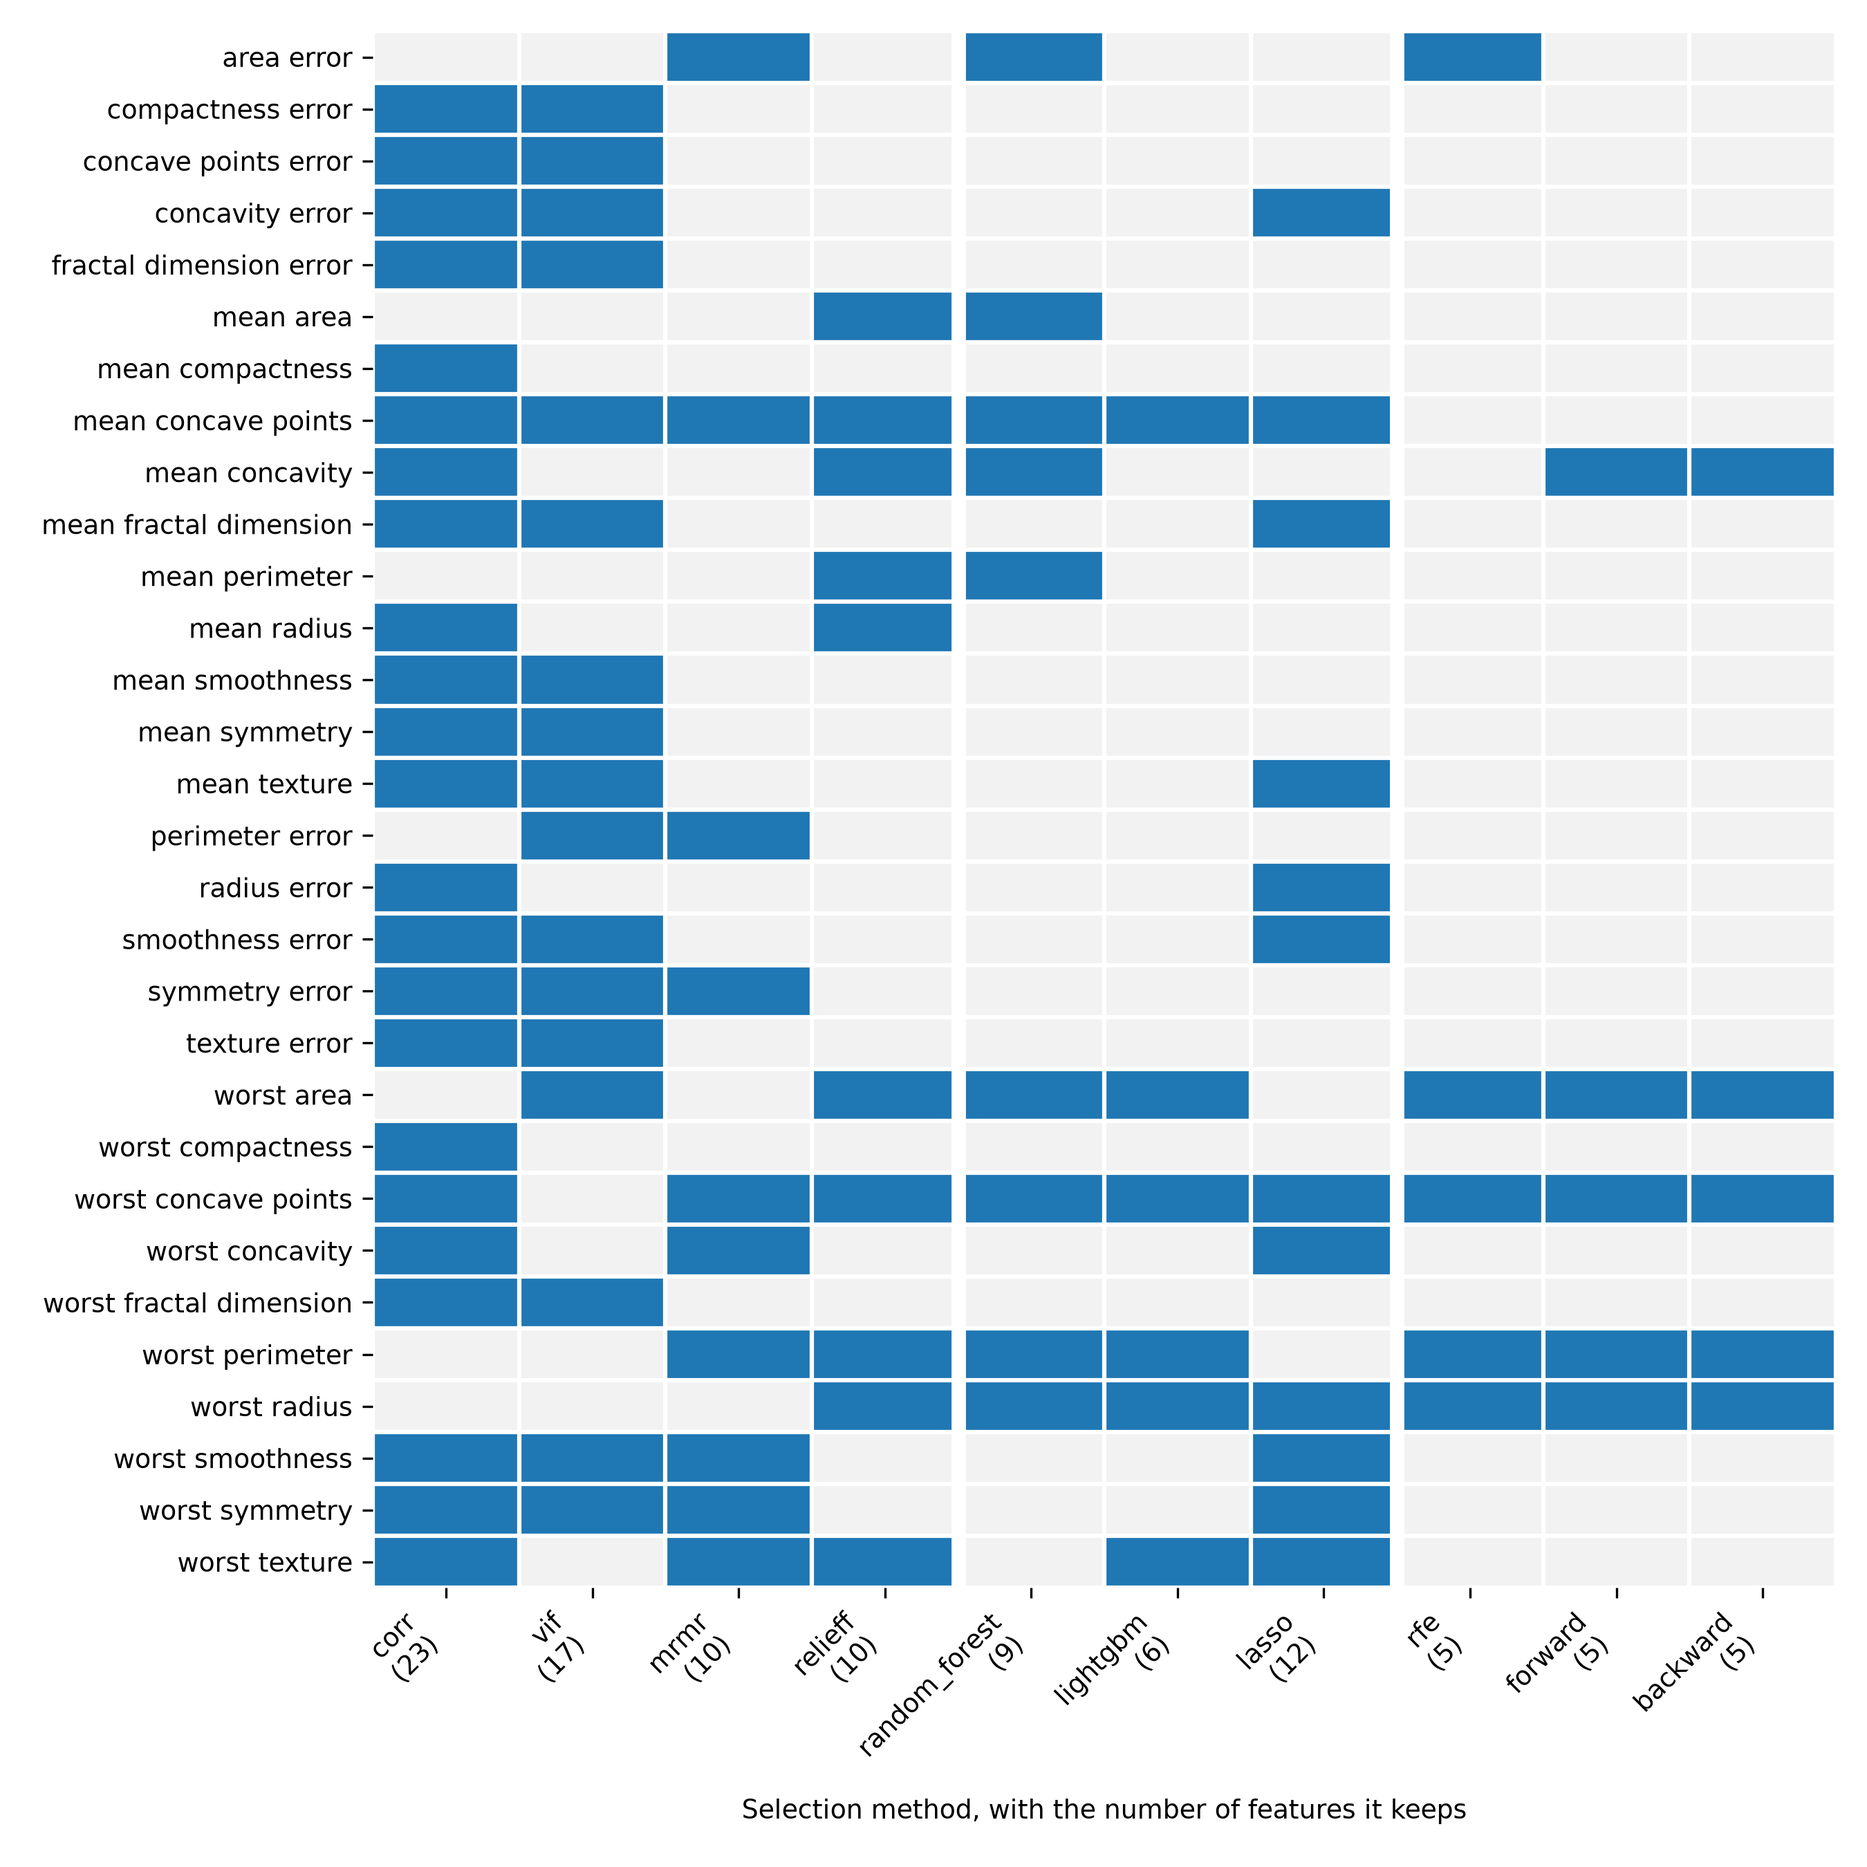
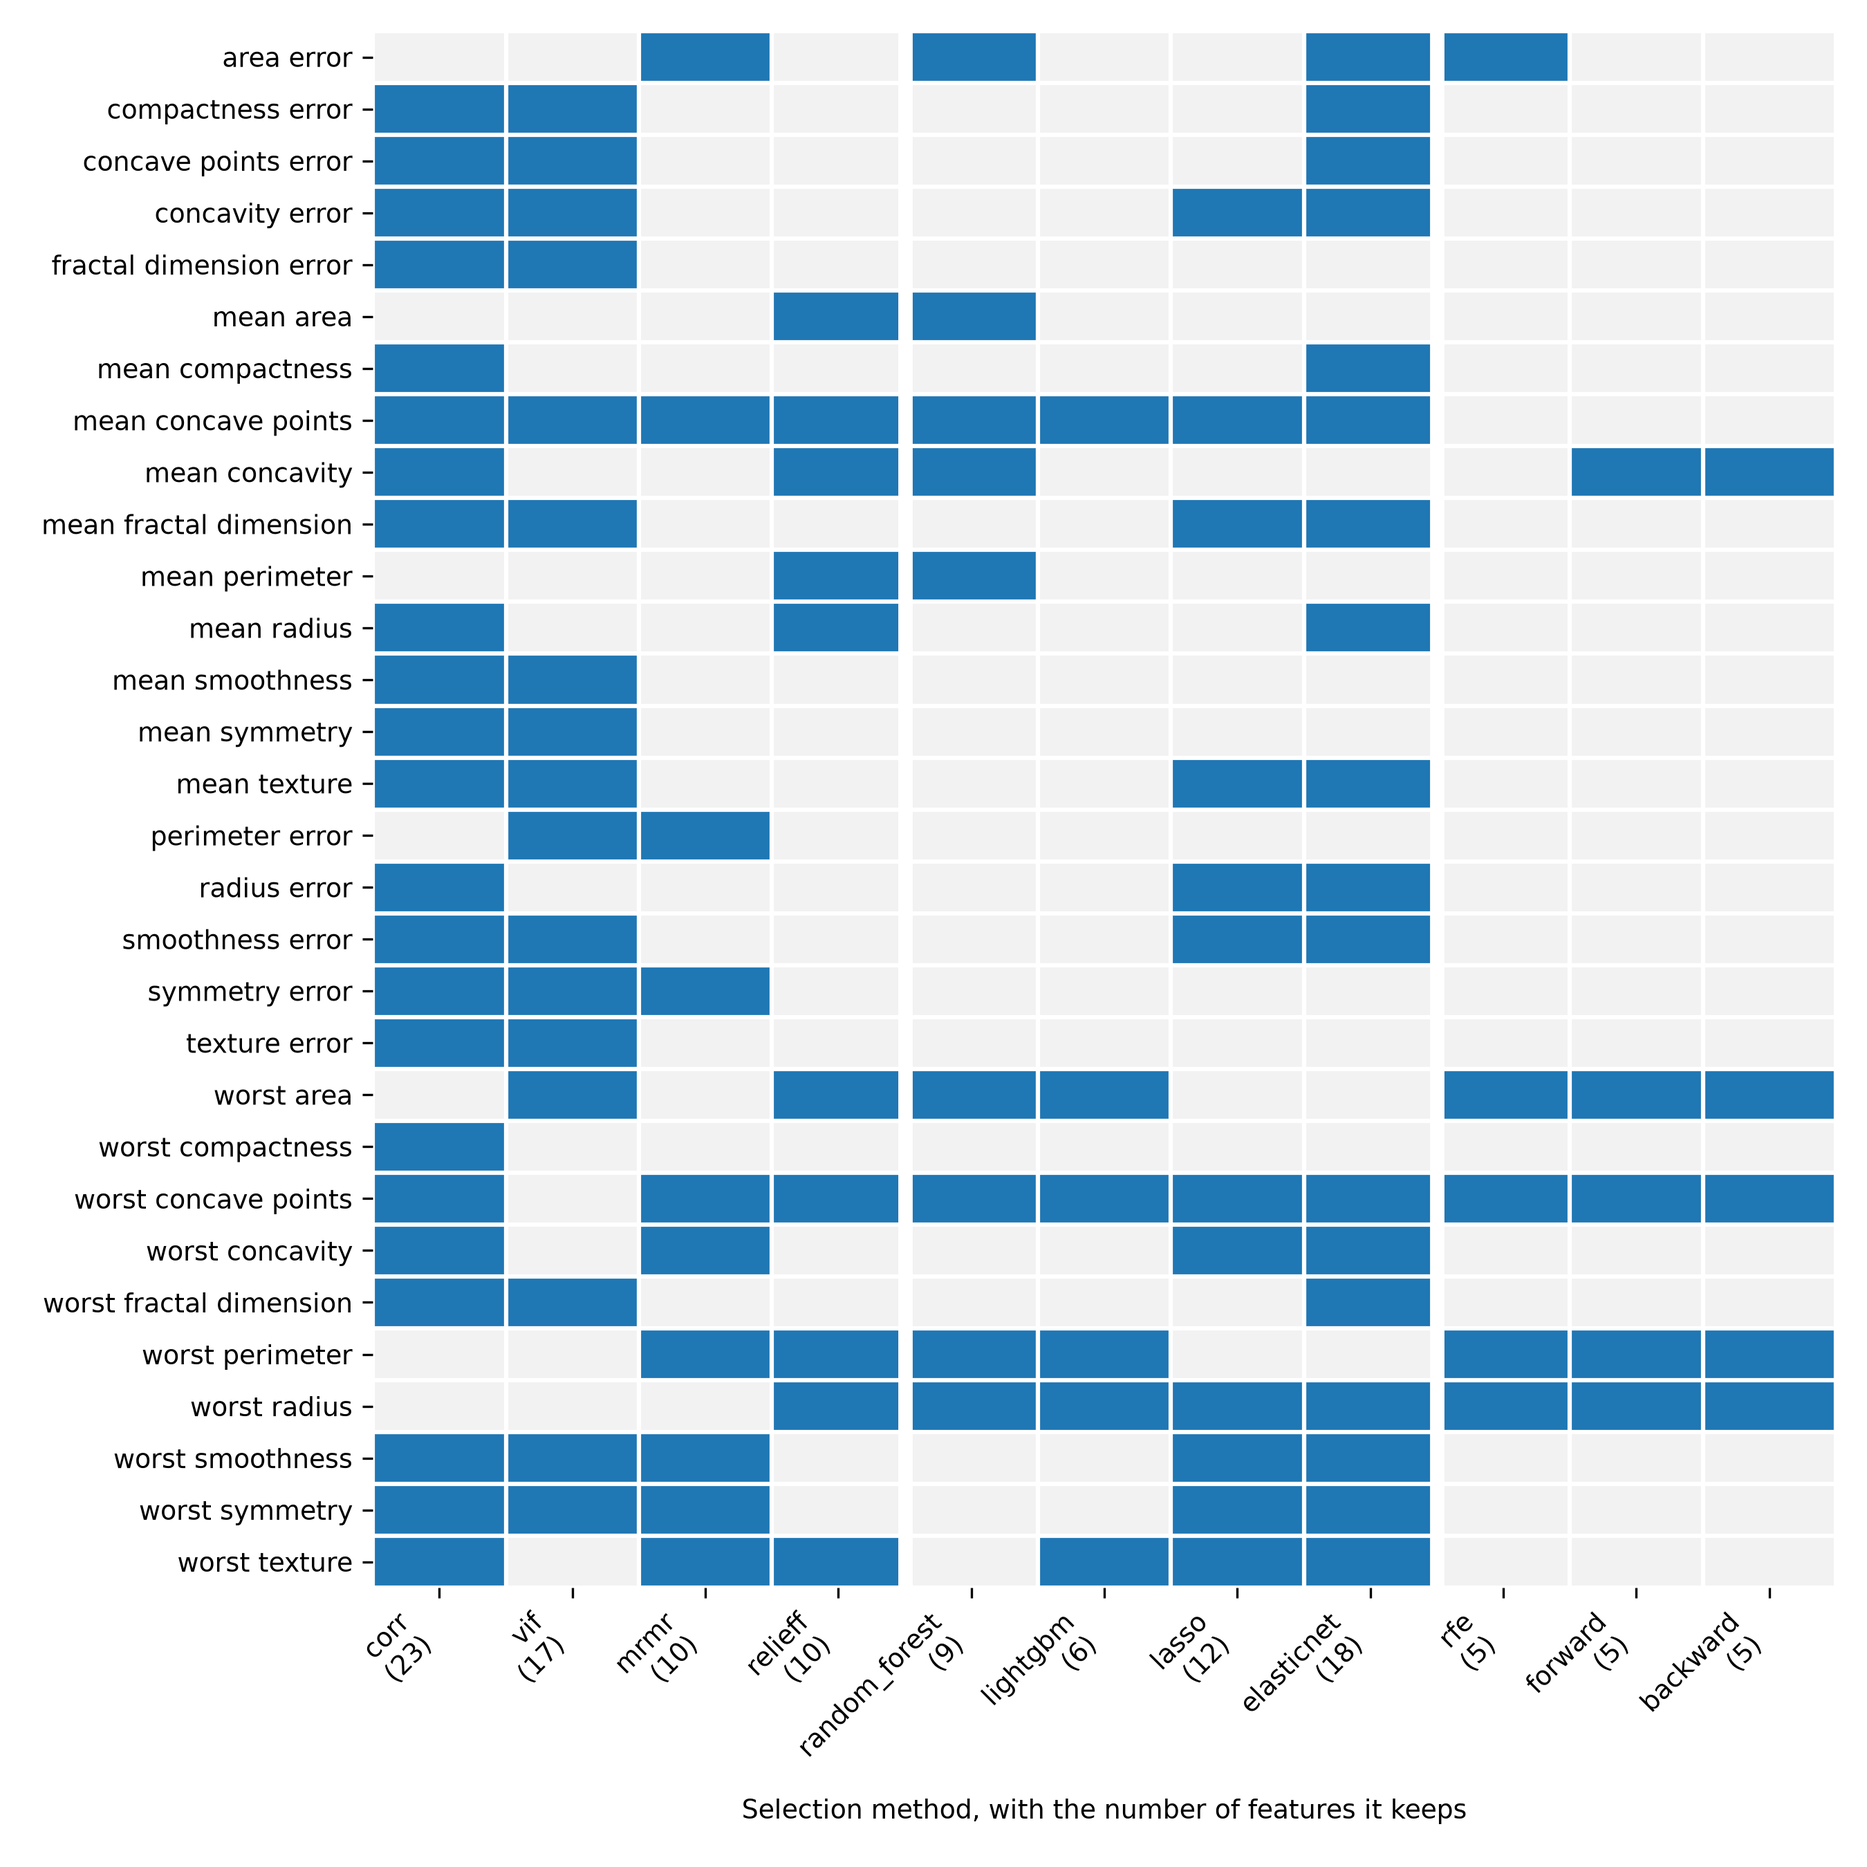
Add the elastic net beside the lasso in the embedded step
Claude-Session: https://claude.ai/code/session_01AWadeN2qFJXABZA8Pq8QWN

diff --git a/Feature-Engineering/Feature-Selection/multivariate-feature-selection/multivariate-feature-selection-ko.md b/Feature-Engineering/Feature-Selection/multivariate-feature-selection/multivariate-feature-selection-ko.md
@@ -1,5 +1,5 @@
 # Multivariate Feature Selection
-Rev. 20 | Created: 2026-09-12 | Updated: 2026-09-14 02:28 CDT
+Rev. 21 | Created: 2026-09-12 | Updated: 2026-09-14 03:19 CDT
 
 ## 1. Purpose
 
@@ -82,7 +82,7 @@ Greedy search 는 feature 를 하나씩 추가 (forward) 하거나 제거 (backw
 
 Model 의 학습 algorithm 안에 feature 선택 과정이 들어 있다.
 
-Lasso 는 손실 함수에 계수 절댓값의 합 $\lambda \sum |\beta_i|$ 을 penalty 로 더하여, 불필요한 feature 의 계수를 정확히 0 으로 보낸다.
+Lasso 는 손실 함수에 계수 절댓값의 합 $\lambda \sum |\beta_i|$ 을 penalty 로 더하여, 불필요한 feature 의 계수를 정확히 0 으로 보낸다. ElasticNet 은 거기에 계수 제곱합을 섞어, 서로 상관된 feature 가운데 하나만 남기는 lasso 와 달리 그 무리를 함께 남긴다.
 
 Tree-based importance 는 tree model 의 node 분할 기여도 (MDI) 나 값을 무작위로 섞었을 때의 성능 저하 폭 (permutation importance) 으로 다변량 관점의 중요도를 계산한다. 구현으로는 random forest 와 gradient boosting 계열의 XGBoost, LightGBM 이 있으며, 셋 다 분할 기여도를 내놓으므로 `SelectFromModel` 에 그대로 들어간다.
 
@@ -150,13 +150,13 @@ Table 1. Comparison of the three approaches
 
 ## Appendix B. Implementation
 
-scikit-learn 으로 section 5 의 네 단계를 실행하는 class 다. `run` 은 상수 feature 를 먼저 떨어뜨린 뒤 남은 column 에만 나머지 세 단계를 돌린다. 각 단계의 기준값을 생성자로 받고, 각 단계는 원본 column 번호를 그대로 돌려주어 마지막에 고른 feature 의 이름을 찾을 수 있게 한다. 단계마다 method 이름을 `Literal` 로 받아 그 갈래의 members 를 함께 적어 두므로, 무엇이 적용되었는지 서명에서 읽힌다. Filter 단계는 네 이름 (`corr`, `vif`, `mrmr`, `relieff`) 을, embedded 단계는 세 이름 (`random_forest`, `lightgbm`, `lasso`) 을, wrapper 단계는 세 이름 (`rfe`, `forward`, `backward`) 을 모두 구현하며, 목록에 없는 이름은 `ValueError` 로 막는다.
+scikit-learn 으로 section 5 의 네 단계를 실행하는 class 다. `run` 은 상수 feature 를 먼저 떨어뜨린 뒤 남은 column 에만 나머지 세 단계를 돌린다. 각 단계의 기준값을 생성자로 받고, 각 단계는 원본 column 번호를 그대로 돌려주어 마지막에 고른 feature 의 이름을 찾을 수 있게 한다. 단계마다 method 이름을 `Literal` 로 받아 그 갈래의 members 를 함께 적어 두므로, 무엇이 적용되었는지 서명에서 읽힌다. Filter 단계는 네 이름 (`corr`, `vif`, `mrmr`, `relieff`) 을, embedded 단계는 네 이름 (`random_forest`, `lightgbm`, `lasso`, `elasticnet`) 을, wrapper 단계는 세 이름 (`rfe`, `forward`, `backward`) 을 모두 구현하며, 목록에 없는 이름은 `ValueError` 로 막는다.
 
 입력은 scikit-learn 에 들어 있는 breast cancer dataset 이며, 상수 제거 단계가 보이도록 값이 늘 1.0 인 column 하나를 덧붙여 표본 569 개와 feature 31 개로 만들었다. 원래의 feature 30 개는 서로 중복이 크고, 모두 `StandardScaler` 로 표준화한다.
 
 ```python
 __author__ = "yRocket"
-__version__ = "0.2.1+20260914"
+__version__ = "0.3.0+20260914"
 
 import pathlib
 import textwrap
@@ -170,7 +170,7 @@ from sklearn.datasets import load_breast_cancer
 from sklearn.ensemble import RandomForestClassifier
 from sklearn.feature_selection import (RFE, SelectFromModel, SequentialFeatureSelector,
                                        mutual_info_classif, mutual_info_regression)
-from sklearn.linear_model import Lasso, LogisticRegression
+from sklearn.linear_model import ElasticNet, Lasso, LogisticRegression
 from sklearn.neighbors import NearestNeighbors
 from sklearn.preprocessing import StandardScaler
 
@@ -179,7 +179,7 @@ FIGSIZE: tuple = (9.0, 9.0)
 REFERENCE_WIDTH: float = 9.0     # the width BASE_FONT_SIZE was chosen for
 BASE_FONT_SIZE: float = 9.0
 FILTER_METHODS: tuple = ("corr", "vif", "mrmr", "relieff")
-EMBEDDED_METHODS: tuple = ("random_forest", "lightgbm", "lasso")
+EMBEDDED_METHODS: tuple = ("random_forest", "lightgbm", "lasso", "elasticnet")
 WRAPPER_METHODS: tuple = ("rfe", "forward", "backward")
 
 
@@ -192,7 +192,8 @@ class MultivariateFeatureSelector:
     Args:
         correlation_limit: absolute correlation above which one feature of a pair is dropped.
         vif_limit: variance inflation factor above which a feature is dropped, one at a time.
-        lasso_alpha: weight of the lasso penalty of the embedded step.
+        penalty_alpha: weight of the lasso and elastic net penalty of the embedded step.
+        elasticnet_ratio: share of the elastic net penalty that is L1, the rest being L2.
         filter_count: number of features the ranking filters (mrmr, relieff) keep.
         neighbour_count: number of hits and misses relieff compares per sample.
         forest_size: number of trees of the random forest used by the embedded step.
@@ -202,22 +203,26 @@ class MultivariateFeatureSelector:
     """
 
     def __init__(self, correlation_limit: float = 0.95, vif_limit: float = 10.0,
-                 lasso_alpha: float = 0.01, filter_count: int = 10, neighbour_count: int = 10,
+                 penalty_alpha: float = 0.01, elasticnet_ratio: float = 0.5,
+                 filter_count: int = 10, neighbour_count: int = 10,
                  forest_size: int = 200, fold_count: int = 5, final_count: int = 5,
                  random_state: int = 0) -> None:
         if not 0.0 < correlation_limit < 1.0:
             raise ValueError(f"correlation_limit must lie between 0 and 1: {correlation_limit=}")
         if vif_limit <= 1.0:
             raise ValueError(f"vif_limit must exceed 1: {vif_limit=}")
-        if lasso_alpha <= 0.0:
-            raise ValueError(f"lasso_alpha must be positive: {lasso_alpha=}")
+        if penalty_alpha <= 0.0:
+            raise ValueError(f"penalty_alpha must be positive: {penalty_alpha=}")
+        if not 0.0 < elasticnet_ratio <= 1.0:
+            raise ValueError(f"elasticnet_ratio must lie in (0, 1]: {elasticnet_ratio=}")
         if fold_count < 2:
             raise ValueError(f"fold_count must be at least 2: {fold_count=}")
         if filter_count < 1 or neighbour_count < 1 or final_count < 1:
             raise ValueError(f"counts must be at least 1: {filter_count=}, {neighbour_count=}, {final_count=}")
         self.correlation_limit = correlation_limit
         self.vif_limit = vif_limit
-        self.lasso_alpha = lasso_alpha
+        self.penalty_alpha = penalty_alpha
+        self.elasticnet_ratio = elasticnet_ratio
         self.filter_count = filter_count
         self.neighbour_count = neighbour_count
         self.forest_size = forest_size
@@ -304,14 +309,17 @@ class MultivariateFeatureSelector:
         return np.abs(source[:, None, :] - pool[neighbours]).sum(axis=(0, 1))
 
     def embedded_step(self, X: np.ndarray, y: np.ndarray, columns: np.ndarray,
-                      method: Literal["random_forest", "lightgbm", "lasso"] = "random_forest") -> np.ndarray:
+                      method: Literal["random_forest", "lightgbm", "lasso",
+                                      "elasticnet"] = "random_forest") -> np.ndarray:
         """Return the columns the named embedded model keeps, as indices into the columns of X."""
         if method == "random_forest":
             return self._by_forest(X=X, y=y, columns=columns)
         if method == "lightgbm":
             return self._by_lightgbm(X=X, y=y, columns=columns)
         if method == "lasso":
-            return self._by_lasso(X=X, y=y, columns=columns)
+            return self._by_penalty(X=X, y=y, columns=columns, l1_ratio=1.0)
+        if method == "elasticnet":
+            return self._by_penalty(X=X, y=y, columns=columns, l1_ratio=self.elasticnet_ratio)
         raise ValueError(f"unknown embedded method: {method=}")
 
     def _by_forest(self, X: np.ndarray, y: np.ndarray, columns: np.ndarray) -> np.ndarray:
@@ -327,10 +335,17 @@ class MultivariateFeatureSelector:
         selector = SelectFromModel(estimator=booster, threshold="mean").fit(X[:, columns], y)
         return columns[selector.get_support()]
 
-    def _by_lasso(self, X: np.ndarray, y: np.ndarray, columns: np.ndarray) -> np.ndarray:
-        """Keep the columns whose lasso coefficient stays off zero, reading the class label as 0 or 1."""
-        lasso = Lasso(alpha=self.lasso_alpha, random_state=self.random_state)
-        selector = SelectFromModel(estimator=lasso, threshold=1e-10).fit(X[:, columns], y)
+    def _by_penalty(self, X: np.ndarray, y: np.ndarray, columns: np.ndarray,
+                    l1_ratio: float) -> np.ndarray:
+        """Keep the columns whose penalized coefficient stays off zero, reading the class label as 0 or 1.
+
+        An L1 share of 1 is the lasso; a smaller share adds the L2 term of the elastic net, which keeps
+        correlated features together instead of picking one of them.
+        """
+        estimator = (Lasso(alpha=self.penalty_alpha, random_state=self.random_state) if l1_ratio == 1.0
+                     else ElasticNet(alpha=self.penalty_alpha, l1_ratio=l1_ratio,
+                                     random_state=self.random_state))
+        selector = SelectFromModel(estimator=estimator, threshold=1e-10).fit(X[:, columns], y)
         return columns[selector.get_support()]
 
     def wrapper_step(self, X: np.ndarray, y: np.ndarray, columns: np.ndarray,
@@ -361,7 +376,8 @@ class MultivariateFeatureSelector:
 
     def run(self, X: np.ndarray, y: np.ndarray,
             filter_method: Literal["corr", "vif", "mrmr", "relieff"] = "corr",
-            embedded_method: Literal["random_forest", "lightgbm", "lasso"] = "random_forest",
+            embedded_method: Literal["random_forest", "lightgbm", "lasso",
+                                     "elasticnet"] = "random_forest",
             wrapper_method: Literal["rfe", "forward", "backward"] = "rfe") -> dict:
         """Return the surviving column indices of each step, keyed by step name.
 
@@ -435,7 +451,7 @@ if __name__ == "__main__":
           f"{len(workflow['wrapper'])} out; chart written to {FIGURE_PATH}")
 ```
 
-상수 column 은 첫 단계에서 떨어져 어느 filter 에도 닿지 않는다. 남은 30 개에서 네 filter 는 23, 17, 10, 10 개를, 세 embedded 는 9, 6, 12 개를 남겨 서로 다른 답을 낸다. 세 wrapper 는 random forest 가 남긴 9 개에서 저마다 5 개를 고르는데, `forward` 와 `backward` 는 같은 조합에 닿고 `rfe` 만 다른 하나를 집는다. `run` 이 기본값으로 받는 `corr` → `random_forest` → `rfe` 로 이어 가면 feature 수가 31, 30, 23, 6, 5 로 줄고, 비용이 가장 큰 wrapper 는 6 개만 남은 자리에서 돈다.
+상수 column 은 첫 단계에서 떨어져 어느 filter 에도 닿지 않는다. 남은 30 개에서 네 filter 는 23, 17, 10, 10 개를, 네 embedded 는 9, 6, 12, 18 개를 남겨 서로 다른 답을 내며, L2 를 섞은 `elasticnet` 이 상관된 무리를 함께 남겨 `lasso` 보다 6 개를 더 든다. 세 wrapper 는 random forest 가 남긴 9 개에서 저마다 5 개를 고르는데, `forward` 와 `backward` 는 같은 조합에 닿고 `rfe` 만 다른 하나를 집는다. `run` 이 기본값으로 받는 `corr` → `random_forest` → `rfe` 로 이어 가면 feature 수가 31, 30, 23, 6, 5 로 줄고, 비용이 가장 큰 wrapper 는 6 개만 남은 자리에서 돈다.
 
 어느 method 가 어느 feature 를 남겼는지는 Fig 2 에 있다.
 
@@ -443,6 +459,6 @@ if __name__ == "__main__":
 
 Fig 2. Which features each selection method keeps
 
-- 행은 상수 제거 뒤 남은 feature 30 개를 이름순으로, 열은 method 10 개를 filter, embedded, wrapper 순으로 두고, 세 갈래 사이는 열 간격을 넓혀 갈랐다. 칸이 채워진 것은 그 method 가 그 feature 를 남겼다는 뜻이다.
+- 행은 상수 제거 뒤 남은 feature 30 개를 이름순으로, 열은 method 11 개를 filter, embedded, wrapper 순으로 두고, 세 갈래 사이는 열 간격을 넓혀 갈랐다. 칸이 채워진 것은 그 method 가 그 feature 를 남겼다는 뜻이다.
 - 열 이름 아래 괄호 안 숫자는 그 method 가 남긴 feature 수이며, wrapper 세 열은 random forest 가 남긴 9 개 위에서 돌린 결과다.
-- `mean concave points` 는 filter 와 embedded 일곱 열에서 모두 채워지고, `worst concave points` 는 열 열 가운데 아홉에서 채워진다. 반대로 `mean compactness` 와 `worst compactness` 는 corr 한 열에만 남는다.
+- `mean concave points` 는 filter 와 embedded 여덟 열에서 모두 채워지고, `worst concave points` 는 열한 열 가운데 열에서 채워진다. 반대로 `worst compactness` 는 corr 한 열에만 남는다.
